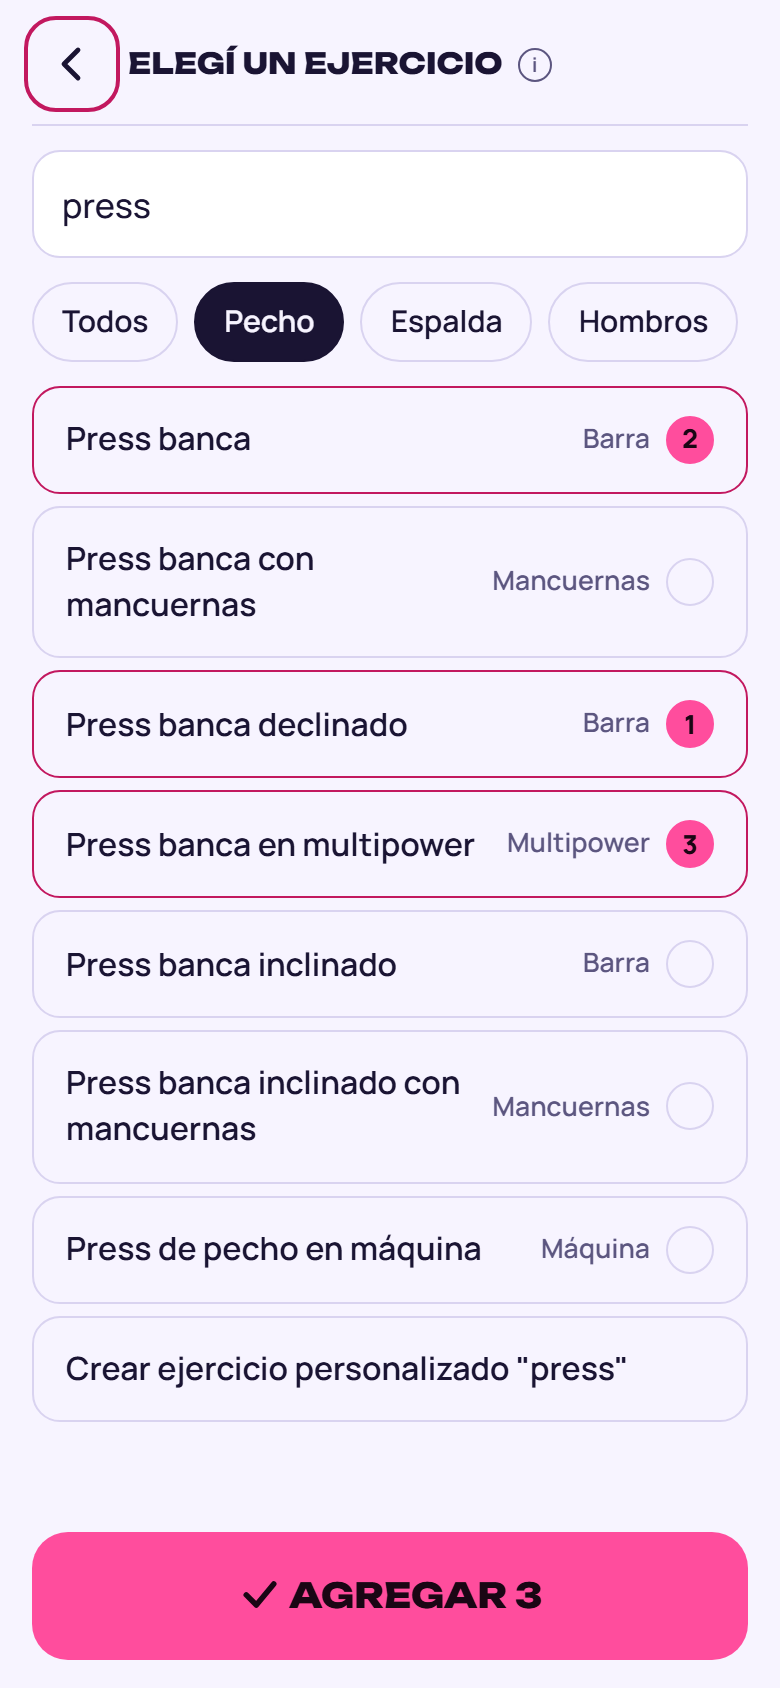
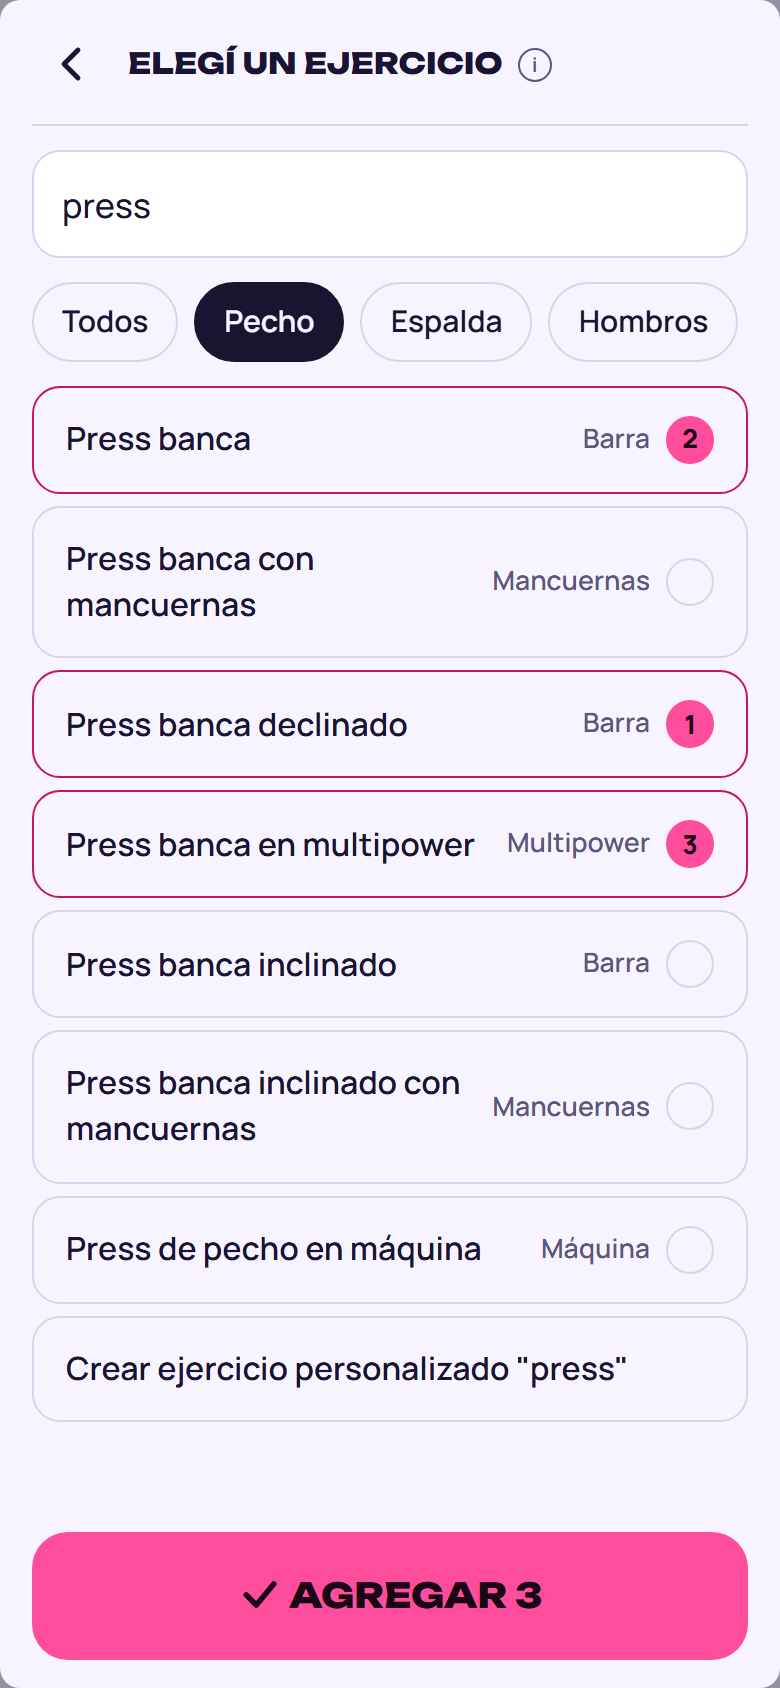
Start the picker's focus on the dialog, so the back button shows no ring; retake the screenshots

diff --git a/app/src/ExercisePicker.tsx b/app/src/ExercisePicker.tsx
@@ -44,6 +44,8 @@ export function ExercisePicker({
       setPicked([]);
       setCreating(null);
       dialog.current?.showModal();
+      // Focus starts on the dialog itself: not on the back button, and not on the search box, which would raise the keyboard.
+      dialog.current?.focus();
     } else dialog.current?.close();
   }, [open]);
 
@@ -67,7 +69,7 @@ export function ExercisePicker({
   }
 
   return createPortal(
-    <dialog ref={dialog} className="picker" aria-label={s.chooseExercise} onClose={onClose}>
+    <dialog ref={dialog} className="picker" tabIndex={-1} aria-label={s.chooseExercise} onClose={onClose}>
       <header className="picker-head">
         <button type="button" className="iconbtn" aria-label={t.close} onClick={onClose}>
           {backIcon}

diff --git a/app/src/styles.css b/app/src/styles.css
@@ -1366,6 +1366,9 @@ prefers-reduced-motion switches every animation off, so it stays off the badge. 
   padding-block: calc(12px + env(safe-area-inset-top, 0px)) 10px;
   border-bottom: 1px solid var(--line);
 }
+.picker:focus {
+  outline: none;
+}
 .picker-chips {
   margin-top: 0;
   flex-shrink: 0;
